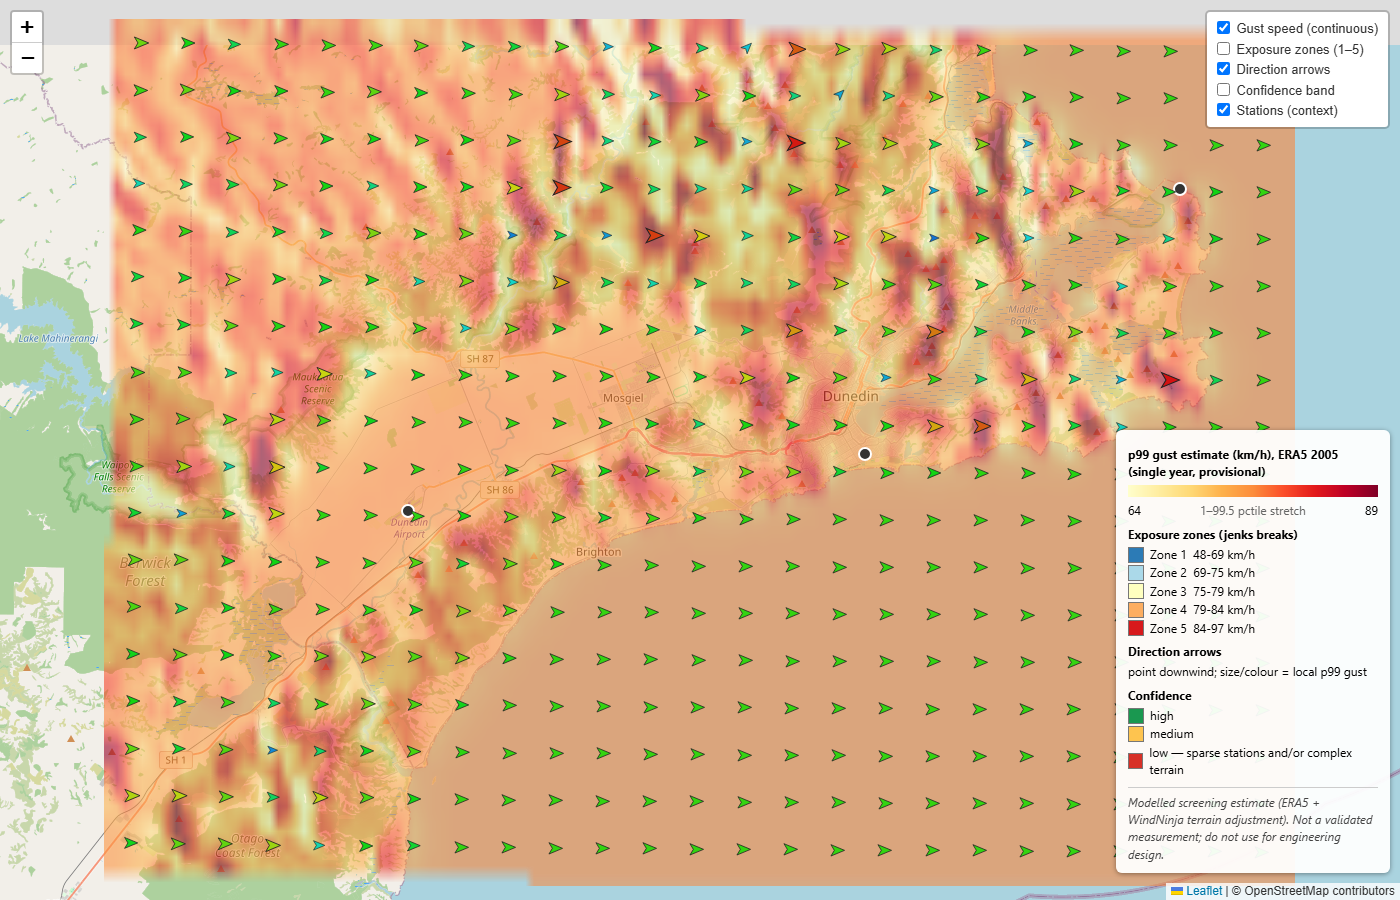
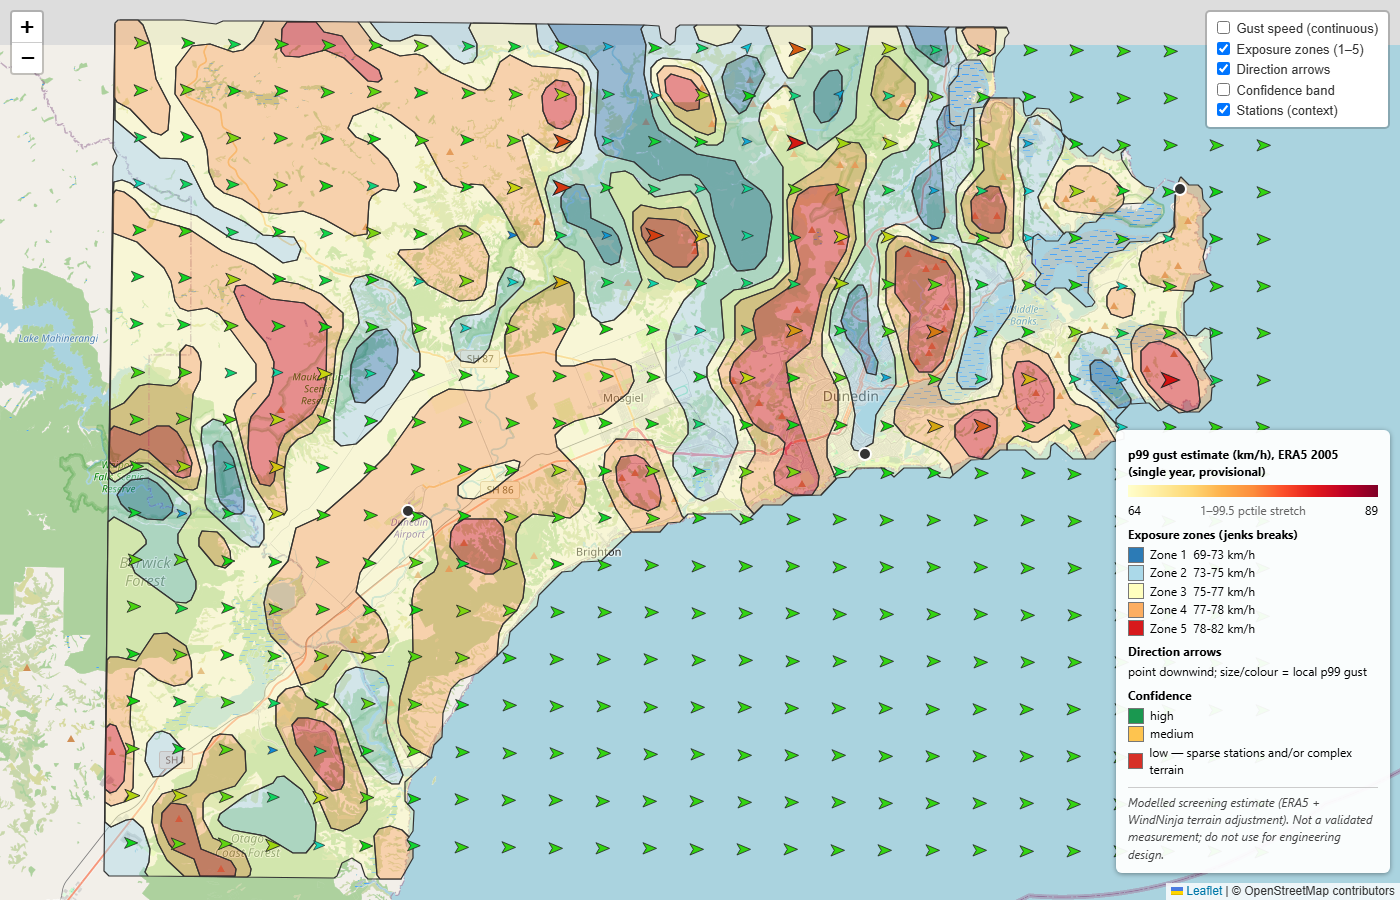
Generalised cartographic zones (council wind-zone map style)
Gaussian 1km smooth -> upsample -> nested contour thresholds -> min-area filter -> round-join boundary smoothing; breaks recomputed on smoothed field; zones clipped to land via edge-connected flood-fill ocean mask (preserves below-sea-level Taieri Plain). Zones now default-on layer.

diff --git a/scripts/08_zones.py b/scripts/08_zones.py
@@ -1,4 +1,6 @@
-"""Classify the gust surface into 5 numbered exposure zones and polygonise.
+"""Classify the gust surface into 5 numbered exposure zones and produce
+smooth, cartographically generalised zone polygons (contour style, like
+council wind-zone maps — curved boundaries, coherent areas).
 
 Usage:
   python 08_zones.py --diagnose            # histogram + Jenks AND quantile
@@ -6,9 +8,17 @@ Usage:
   python 08_zones.py --classify jenks      # after the user picks a scheme
   python 08_zones.py --classify quantile
 
-Zone 1 = lowest exposure ... Zone 5 = highest. Output:
-  outputs/zones.geojson (EPSG:4326, dissolved, lightly simplified)
-  outputs/zones_500m_wgs84.tif (byte raster, for the webmap ramp)
+Method: Gaussian-smooth the gust field (config.ZONE_GAUSS_SIGMA_M), upsample,
+take nested cumulative thresholds at the class breaks (contouring — adjacent
+zones can never gap), drop islands/holes < ZONE_MIN_AREA_KM2, round the
+boundaries (buffer closing/opening), difference into per-zone bands.
+
+The zone layer is GENERALISED CARTOGRAPHY; the continuous 500 m gust raster
+remains the quantitative product. Zone 1 = lowest exposure ... Zone 5 highest.
+
+Output:
+  outputs/zones.geojson (EPSG:4326)
+  outputs/zones_500m_wgs84.tif (byte raster of the smoothed classification)
 """
 import argparse
 import json
@@ -18,16 +28,20 @@ from pathlib import Path
 import numpy as np
 import rasterio
 from rasterio import features
+from rasterio.warp import Resampling
+from scipy import ndimage
 import geopandas as gpd
 from shapely.geometry import shape
+from shapely.ops import unary_union
 import matplotlib
 matplotlib.use("Agg")
 import matplotlib.pyplot as plt
 
 sys.path.insert(0, str(Path(__file__).parent.parent))
 import config as C
+from _util import analysis_grid, reproject_to_wgs84
 
-GUST_WGS84 = C.OUTPUTS / "gust" / "gust99_500m_wgs84.tif"
+GUST_UTM = C.OUTPUTS / "gust" / "gust99_500m.tif"
 
 
 def breaks(values):
@@ -54,69 +68,131 @@ def diagnose(values, brk):
     print(f"diagnostics -> {C.DIAGNOSTICS / 'zone_breaks.png'}")
 
 
-def majority_smooth(z, passes):
-    """Nodata-aware 3x3 strict-majority filter: a cell flips only when >=5 of
-    its 9 neighbours (incl. itself) agree on another zone. 0 = nodata."""
-    for _ in range(passes):
-        p = np.pad(z, 1, mode="edge")
-        stack = np.stack([p[1+dr:p.shape[0]-1+dr, 1+dc:p.shape[1]-1+dc]
-                          for dr in (-1, 0, 1) for dc in (-1, 0, 1)])
-        counts = np.stack([(stack == k).sum(axis=0)
-                           for k in range(1, C.N_ZONES + 1)])
-        mode = counts.argmax(axis=0).astype("uint8") + 1
-        strict = counts.max(axis=0) >= 5
-        valid = z > 0
-        z = np.where(valid & strict, mode, z)
-    return z
+def clean(geom, min_area_m2):
+    """Drop parts and interior holes smaller than min_area_m2."""
+    from shapely.geometry import Polygon, MultiPolygon
+    polys = list(geom.geoms) if isinstance(geom, MultiPolygon) else [geom]
+    kept = []
+    for p in polys:
+        if p.area < min_area_m2:
+            continue
+        rings = [r for r in p.interiors
+                 if Polygon(r).area >= min_area_m2]
+        kept.append(Polygon(p.exterior, rings))
+    return unary_union(kept) if kept else None
+
+
+def smooth_boundary(geom, d):
+    """Round corners: buffer closing then opening with round joins."""
+    return geom.buffer(d, join_style=1).buffer(-2 * d, join_style=1) \
+               .buffer(d, join_style=1)
 
 
 def classify(scheme, values, brk):
-    bs = np.array(brk[scheme])
-    bs[0], bs[-1] = -np.inf, np.inf
-    with rasterio.open(GUST_WGS84) as src:
-        gust = src.read(1)
-        prof = src.profile.copy()
+    with rasterio.open(GUST_UTM) as src:
+        gust = src.read(1).astype("float64")
         transform = src.transform
-    zones = np.digitize(gust, bs[1:-1]) + 1  # 1..5
-    zones = np.where(np.isfinite(gust), zones, 0).astype("uint8")
+        prof = src.profile.copy()
 
-    # Normalise speckle into connected clusters: majority smooth, then absorb
-    # patches under ZONE_MIN_PATCH_CELLS into their surrounding zone.
-    raw_cells = [(zones == z).sum() for z in range(1, C.N_ZONES + 1)]
-    zones = majority_smooth(zones, C.ZONE_SMOOTH_PASSES)
-    zones = features.sieve(zones, size=C.ZONE_MIN_PATCH_CELLS,
-                           connectivity=8, mask=zones > 0)
-    clean_cells = [(zones == z).sum() for z in range(1, C.N_ZONES + 1)]
-    print(f"  cluster cleanup (majority x{C.ZONE_SMOOTH_PASSES} + sieve "
-          f"<{C.ZONE_MIN_PATCH_CELLS} cells): "
-          f"cells/zone {raw_cells} -> {clean_cells}")
+    # 1. Smooth the field (sigma in cells), then upsample for curve quality.
+    sigma = C.ZONE_GAUSS_SIGMA_M / C.GRID_RES_M
+    finite = np.isfinite(gust)
+    filled = np.where(finite, gust, np.nanmean(gust))
+    smooth = ndimage.gaussian_filter(filled, sigma=sigma)
 
-    prof.update(dtype="uint8", nodata=0)
-    zr_path = C.OUTPUTS / "zones_500m_wgs84.tif"
-    with rasterio.open(zr_path, "w", **prof) as dst:
-        dst.write(zones, 1)
+    # Breaks are recomputed on the SMOOTHED field: smoothing compresses the
+    # tails, so raw-field breaks would empty the extreme zones. Both sets go
+    # to the diagnostics JSON for traceability.
+    brk_smooth = breaks(smooth[finite].ravel())
+    (C.DIAGNOSTICS / "zone_breaks_smoothed.json").write_text(
+        json.dumps({"raw": brk, "smoothed": brk_smooth}, indent=2))
+    bs = np.array(brk_smooth[scheme])
+    print(f"  breaks on smoothed field ({scheme}): "
+          f"{[f'{b:.1f}' for b in bs]} m/s")
+    up = C.ZONE_UPSAMPLE
+    smooth_hi = ndimage.zoom(smooth, up, order=1)
+    hi_transform = transform * transform.scale(1 / up, 1 / up)
+    res_hi = C.GRID_RES_M / up
+    min_area = C.ZONE_MIN_AREA_KM2 * 1e6
 
-    real_breaks = np.array(brk[scheme])
-    geoms = []
-    for geom, val in features.shapes(zones, transform=transform):
-        if val > 0:
-            geoms.append({"zone": int(val), "geometry": shape(geom)})
-    gdf = gpd.GeoDataFrame(geoms, crs=C.CRS_WGS84)
-    gdf = gdf.dissolve(by="zone", as_index=False)
-    gdf["geometry"] = gdf.geometry.simplify(0.0008)
+    # 2. Nested cumulative regions: R_k = area with smoothed gust >= break k.
+    #    Contour-style, so adjacent zones can never gap or overlap.
+    regions = {}
+    for k in range(2, C.N_ZONES + 1):
+        mask = (smooth_hi >= bs[k - 1]).astype("uint8")
+        geoms = [shape(g) for g, v in features.shapes(
+            mask, transform=hi_transform) if v == 1]
+        geom = unary_union(geoms) if geoms else None
+        if geom is not None and not geom.is_empty:
+            geom = clean(geom, min_area)
+        if geom is not None and not geom.is_empty:
+            geom = smooth_boundary(geom, C.ZONE_BOUNDARY_SMOOTH_M)
+            geom = geom.simplify(res_hi)
+            geom = clean(geom, min_area)
+        regions[k] = geom
+
+    # Base for Zone 1 = land within the analysis extent (council-map style:
+    # water is unzoned; the continuous raster still covers it).
+    from _util import resample_to_grid
+    dem500 = resample_to_grid(C.DEM_DIR / "dem_utm.tif",
+                              C.DEM_DIR / "land_500m.tif", Resampling.average)
+    # Ocean = low cells CONNECTED TO THE MAP EDGE (flood fill). A plain
+    # elevation cut would wrongly drop the below-sea-level parts of the
+    # drained Taieri Plain; enclosed low land stays zoned, sea/harbour don't.
+    low = np.nan_to_num(dem500) <= C.LAND_MIN_ELEV_M
+    lbl, _ = ndimage.label(low)
+    edge = (set(lbl[0, :]) | set(lbl[-1, :]) |
+            set(lbl[:, 0]) | set(lbl[:, -1])) - {0}
+    land_mask = ~np.isin(lbl, list(edge))
+    land_hi = ndimage.zoom(land_mask.astype("float32"), up, order=1) > 0.5
+    land_geoms = [shape(g) for g, v in features.shapes(
+        land_hi.astype("uint8"), transform=hi_transform) if v == 1]
+    land = clean(unary_union(land_geoms), min_area)
+    land = smooth_boundary(land, C.ZONE_BOUNDARY_SMOOTH_M).simplify(res_hi)
+    regions[1] = land
+    for k in range(2, C.N_ZONES + 1):
+        if regions.get(k) is not None and not regions[k].is_empty:
+            regions[k] = regions[k].intersection(land)
+
+    # 3. Difference nested regions into per-zone bands.
+    rows = []
+    for k in range(1, C.N_ZONES + 1):
+        geom = regions.get(k)
+        if geom is None or geom.is_empty:
+            print(f"  Zone {k}: empty after generalisation")
+            continue
+        nxt = regions.get(k + 1)
+        band = geom.difference(nxt) if (nxt and not nxt.is_empty) else geom
+        band = clean(band, min_area) or band
+        rows.append({"zone": k, "geometry": band})
+        print(f"  Zone {k}: {bs[k-1]:.1f}-{bs[k]:.1f} m/s "
+              f"({bs[k-1]*C.MS_TO_KMH:.0f}-{bs[k]*C.MS_TO_KMH:.0f} km/h), "
+              f"{band.area/1e6:.0f} km^2")
+
+    gdf = gpd.GeoDataFrame(rows, crs=C.CRS_WORKING)
     gdf["label"] = gdf["zone"].map(lambda z: f"Zone {z}")
     gdf["gust_range_ms"] = gdf["zone"].map(
-        lambda z: f"{real_breaks[z-1]:.1f}-{real_breaks[z]:.1f}")
+        lambda z: f"{bs[z-1]:.1f}-{bs[z]:.1f}")
     gdf["gust_range_kmh"] = gdf["zone"].map(
-        lambda z: f"{real_breaks[z-1]*C.MS_TO_KMH:.0f}-"
-                  f"{real_breaks[z]*C.MS_TO_KMH:.0f}")
+        lambda z: f"{bs[z-1]*C.MS_TO_KMH:.0f}-{bs[z]*C.MS_TO_KMH:.0f}")
     gdf["scheme"] = scheme
-    gdf["note"] = C.UNCERTAINTY_STATEMENT
+    gdf["note"] = (C.UNCERTAINTY_STATEMENT +
+                   f" Zone boundaries generalised ({C.ZONE_GAUSS_SIGMA_M/1000:.0f} km "
+                   "smoothing); consult the continuous layer for cell values.")
+    gdf = gdf.to_crs(C.CRS_WGS84)
     out = C.OUTPUTS / "zones.geojson"
     gdf.to_file(out, driver="GeoJSON")
-    for _, r in gdf.iterrows():
-        print(f"  {r['label']}: {r['gust_range_ms']} m/s")
-    print(f"wrote {out} (scheme={scheme})")
+    print(f"wrote {out} (scheme={scheme}, generalised)")
+
+    # 4. Matching byte raster (smoothed classification, 500 m).
+    zones_r = (np.digitize(smooth, bs[1:-1]) + 1).astype("uint8")
+    zones_r = np.where(land_mask, zones_r, 0).astype("uint8")
+    prof.update(dtype="uint8", nodata=0)
+    zr_utm = C.OUTPUTS / "zones_500m.tif"
+    with rasterio.open(zr_utm, "w", **prof) as dst:
+        dst.write(zones_r, 1)
+    reproject_to_wgs84(zr_utm, C.OUTPUTS / "zones_500m_wgs84.tif",
+                       resampling=Resampling.nearest)
 
 
 def main():
@@ -126,7 +202,7 @@ def main():
     g.add_argument("--classify", choices=["jenks", "quantile"])
     args = ap.parse_args()
 
-    with rasterio.open(GUST_WGS84) as src:
+    with rasterio.open(GUST_UTM) as src:
         gust = src.read(1)
     values = gust[np.isfinite(gust)].ravel()
     brk = breaks(values)

diff --git a/config.py b/config.py
@@ -76,10 +76,14 @@ STATIONS = [
 # --- Zones & arrows ------------------------------------------------------------
 N_ZONES = 5                 # Zone 1 = lowest exposure ... Zone 5 = highest
 ARROW_SPACING_M = 2500      # Checkpoint 6 value (~5x5 analysis cells)
-# Zone cluster cleanup: majority-smooth passes, then sieve patches smaller
-# than this many 500 m cells (8 cells = 2 km^2) into the surrounding zone.
-ZONE_SMOOTH_PASSES = 1
-ZONE_MIN_PATCH_CELLS = 8
+# Zone polygons are a cartographically generalised layer (Wellington-wind-
+# zones look): Gaussian-smoothed field, contour-style nested thresholds,
+# curved boundaries. The continuous gust raster stays quantitative.
+ZONE_GAUSS_SIGMA_M = 1000    # smoothing of the field before classification
+ZONE_UPSAMPLE = 5            # 500 m -> 100 m before contouring (curve quality)
+ZONE_MIN_AREA_KM2 = 2.0      # drop zone islands / fill holes smaller than this
+ZONE_BOUNDARY_SMOOTH_M = 250 # round-join buffer smoothing radius
+LAND_MIN_ELEV_M = 1.0        # zones are clipped to land (council-map style)
 
 # Internal rasters/science stay in m/s; user-facing display is km/h.
 MS_TO_KMH = 3.6

diff --git a/scripts/10_build_webmap.py b/scripts/10_build_webmap.py
@@ -196,7 +196,7 @@ const stations = L.geoJSON(@STATIONS@, {
     .bindPopup(`<b>${f.properties.name}</b><br>${f.properties.role}`)
 });
 
-gust.addTo(map); arrows.addTo(map); stations.addTo(map);
+zones.addTo(map); arrows.addTo(map); stations.addTo(map);
 L.control.layers(null, {
   'Gust speed (continuous)': gust,
   'Exposure zones (1–5)': zones,

diff --git a/BUILD_LOG.md b/BUILD_LOG.md
@@ -1,5 +1,41 @@
 # BUILD_LOG
 
+## 2026-07-10 — Session 1 addendum 2: generalised cartographic zones
+
+**Goal.** Rework zone polygons into smooth, curved, council-wind-zone-map
+style shapes (Jamie's reference: WCC wind zones via wellingtonista.com),
+replacing the rectangular cell-edge polygons.
+
+**Decisions.**
+- Jamie explicitly wants the SHAPE/DESIGN of NZS 3604-style council maps
+  only — NOT the NZS 3604 design-gust methodology (offered, declined for
+  now; would need the 30-yr record for an extreme-value fit, still on hold).
+- New zone derivation: 1 km Gaussian smooth of the gust field -> 5x upsample
+  (100 m) -> nested cumulative thresholds at the class breaks (contour
+  style, gap/overlap-free) -> drop islands/holes < 2 km^2 -> round-join
+  buffer smoothing (250 m) -> difference into bands. Tunables in config.py.
+- Breaks recomputed on the SMOOTHED field (raw-field breaks emptied Zone 5
+  because smoothing compresses the tails). Raw + smoothed break sets both in
+  outputs/diagnostics/zone_breaks_smoothed.json.
+- Zones clipped to land, council-map style (water unzoned; continuous raster
+  still covers it). Ocean mask = low cells connected to the map edge (flood
+  fill) — a plain elevation cut wrongly dropped the below-sea-level drained
+  Taieri Plain; caught on the screenshot, fixed same session.
+- Webmap default layers now zones+arrows+stations (gust raster opt-in).
+
+**Residuals & caveats.**
+- The zone layer is now explicitly GENERALISED CARTOGRAPHY: 1 km smoothing
+  compresses zone value ranges to 1-2 km/h widths (69-73 ... 78-82 km/h) —
+  zones are ordinal exposure classes, not precise bins. Stated in each
+  feature's note property. Quantitative values live in the continuous layer.
+- Zone areas: 90 / 298 / 601 / 586 / 159 km^2 (Zones 1-5).
+
+**Checkpoints.** None new; Checkpoint 5's Jenks choice carried over (applied
+to the smoothed field). NZS 3604 design-gust variant parked with the 30-yr
+pull decision.
+
+**Next.** Unchanged: 30-yr pull on Jamie's go, then re-run 04->10.
+
 ## 2026-07-10 — Session 1 addendum: repo push, km/h display, zone clustering
 
 **Goal.** Publish to GitHub; convert user-facing units to km/h; normalise